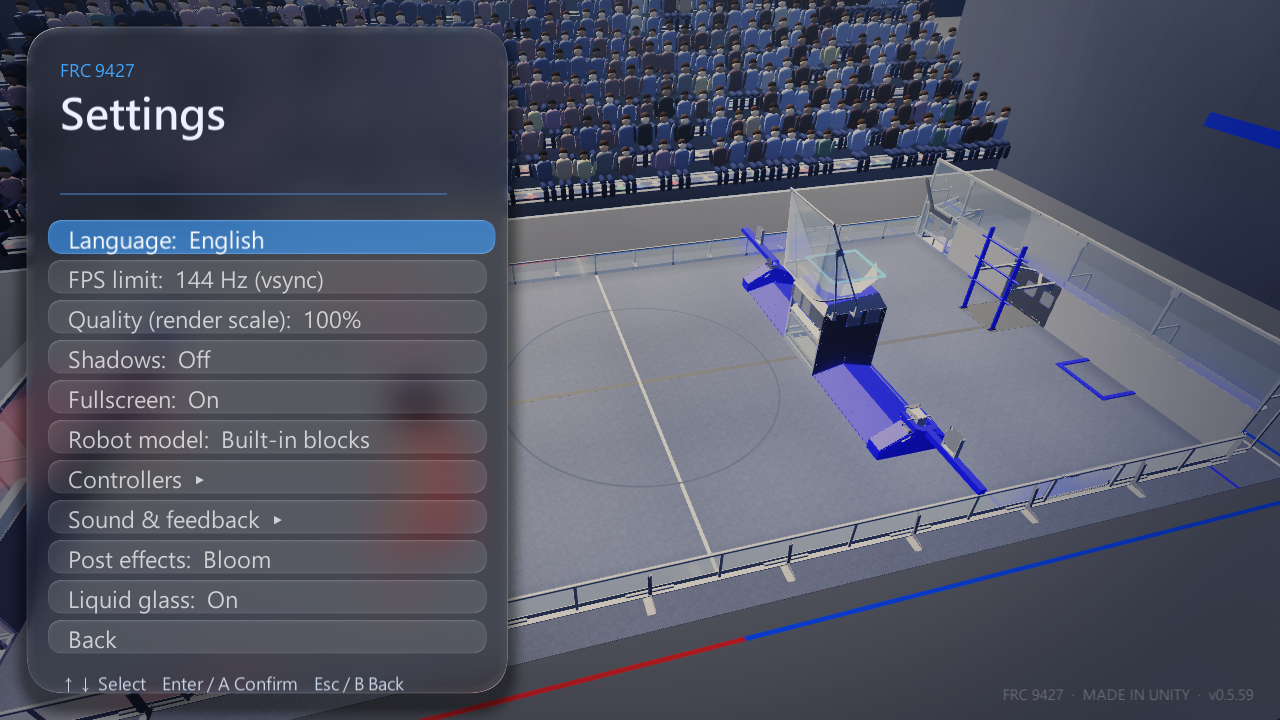
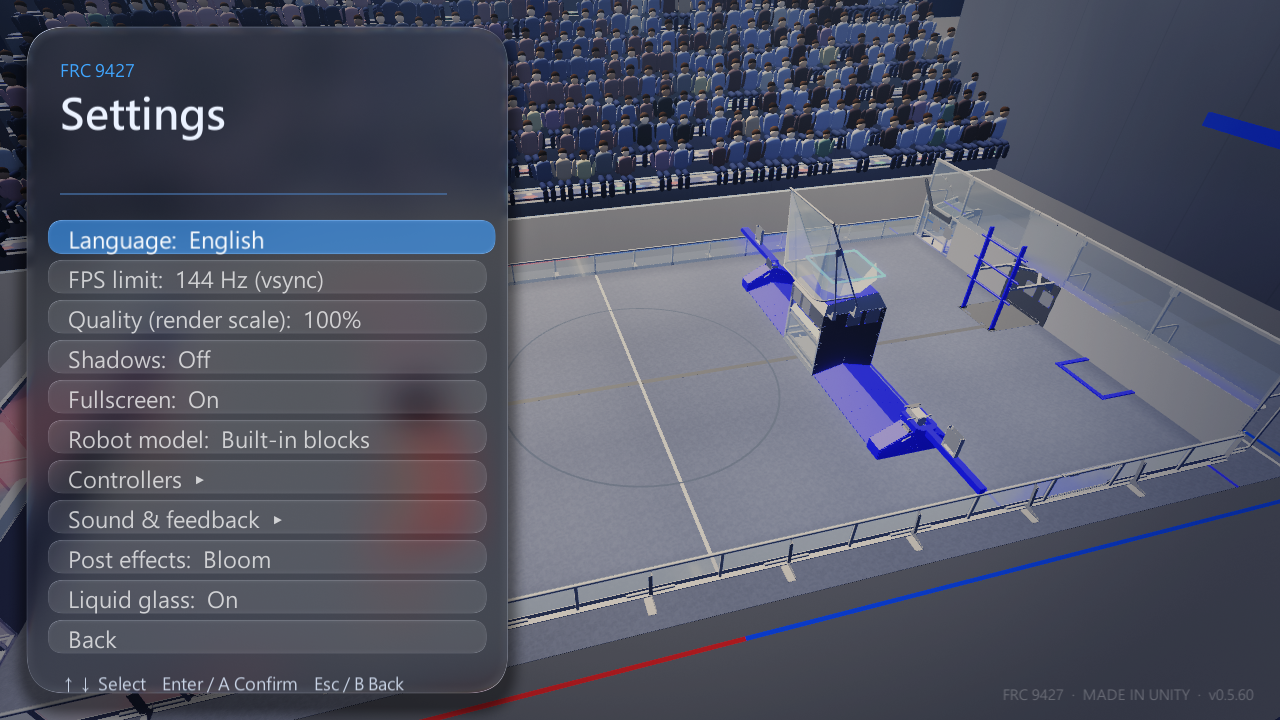
v0.5.60 score chart

diff --git a/Assets/Scripts/Sim/SimHud.cs b/Assets/Scripts/Sim/SimHud.cs
@@ -32,10 +32,38 @@ namespace FrcSim
         }
 
         bool wasPadOk = true, wasLoading; float padLostUntil;
-        void Start() { born = Time.unscaledTime; if (System.Array.IndexOf(System.Environment.GetCommandLineArgs(), "-f12test") >= 0) Invoke(nameof(TestShot), 8f); }
+        void Start() { born = Time.unscaledTime; if (System.Array.IndexOf(System.Environment.GetCommandLineArgs(), "-f12test") >= 0) Invoke(nameof(TestShot), 8f); if (System.Array.IndexOf(System.Environment.GetCommandLineArgs(), "-fakescore") >= 0) InvokeRepeating(nameof(FakeScore), 1f, 1.2f); }
         void TestShot() { StartCoroutine(SaveShot()); }
+        void FakeScore() { if (ScoreManager.Ended) return; ScoreManager.BlueScore += 2; if (Random.value < 0.5f) ScoreManager.RedScore += 1; }   // 測試旗標 -fakescore:模擬得分給結算折線圖截圖用
 
         float tutStart = -1f; bool tutDone, tutKey; bool bestDone, bestNew; int bestPrev;
+        readonly System.Collections.Generic.List<Vector3> chart = new System.Collections.Generic.List<Vector3>();   // (比賽秒數, 藍分, 紅分) 每秒取樣,結算折線圖用
+        float chartNext;
+        void SampleChart()
+        {
+            if (!ScoreManager.ClockOn) { chart.Clear(); return; }
+            float mt = ScoreManager.MatchTime;
+            if (chart.Count > 0 && mt < chart[chart.Count - 1].x - 1f) chart.Clear();   // 再來一場:時鐘倒回,清掉舊資料
+            if (!ScoreManager.Ended && Time.unscaledTime >= chartNext) { chartNext = Time.unscaledTime + 1f; chart.Add(new Vector3(mt, ScoreManager.BlueScore, ScoreManager.RedScore)); }
+        }
+        void DrawChart(Rect r, int maxScore)
+        {
+            var wt = Texture2D.whiteTexture; GUI.color = new Color(1f, 1f, 1f, 0.07f); GUI.DrawTexture(r, wt);
+            float tMax = Mathf.Max(160f, chart[chart.Count - 1].x), mx = Mathf.Max(1, maxScore);
+            for (int pass = 0; pass < 2; pass++)
+            {
+                GUI.color = pass == 0 ? new Color(0.35f, 0.6f, 1f, 0.95f) : new Color(1f, 0.4f, 0.4f, 0.95f);
+                for (int i = 1; i < chart.Count; i++)
+                {
+                    float x0 = r.x + chart[i - 1].x / tMax * r.width, x1 = r.x + chart[i].x / tMax * r.width;
+                    float v0 = pass == 0 ? chart[i - 1].y : chart[i - 1].z, v1 = pass == 0 ? chart[i].y : chart[i].z;
+                    float y0 = r.yMax - v0 / mx * (r.height - 4f) - 2f, y1 = r.yMax - v1 / mx * (r.height - 4f) - 2f;
+                    GUI.DrawTexture(new Rect(x0, y0 - 1f, Mathf.Max(1f, x1 - x0), 2f), wt);                       // 水平段
+                    if (Mathf.Abs(y1 - y0) > 0.5f) GUI.DrawTexture(new Rect(x1 - 1f, Mathf.Min(y0, y1) - 1f, 2f, Mathf.Abs(y1 - y0) + 2f), wt);   // 垂直段(得分瞬間)
+                }
+            }
+            GUI.color = Color.white;
+        }
         string shotMsg = "", bannerPhase, bannerText = ""; float shotUntil, bannerUntil;
         System.Collections.IEnumerator SaveShot()
         {
@@ -55,6 +83,7 @@ namespace FrcSim
         void Update()
         {
             fps = Mathf.Lerp(fps, 1f / Mathf.Max(Time.unscaledDeltaTime, 1e-4f), 0.05f);
+            SampleChart();
             if (Input.GetKeyDown(KeyCode.F3)) showDebug = !showDebug;
             if (tutStart >= 0f && Input.GetKeyDown(KeyCode.Space)) tutKey = true;
             if (Input.GetKeyDown(KeyCode.F12)) StartCoroutine(SaveShot());
@@ -300,7 +329,9 @@ namespace FrcSim
             if (ScoreManager.ClockOn && ScoreManager.Ended)
             {
                 int rows = 0; for (int q = 0; q < 5; q++) if (ShotLog.Att[q] > 0) rows++;
-                float extra = rows > 0 ? rows * 26f + 34f : 0f;
+                bool showChart = chart.Count > 3 && ScoreManager.BlueScore + ScoreManager.RedScore > 0;
+                float rowsH = rows > 0 ? rows * 26f + 34f : 0f;
+                float extra = rowsH + (showChart ? 96f : 0f);
                 float cw = 560, ch = 372 + extra;
                 var cr = new Rect(cx - cw / 2f, H / 2f - ch / 2f, cw, ch);
                 Panel(cr, 0.95f);
@@ -327,6 +358,7 @@ namespace FrcSim
                         ry += 26f;
                     }
                 }
+                if (showChart) { chart.Add(new Vector3(160f, ScoreManager.BlueScore, ScoreManager.RedScore)); DrawChart(new Rect(cr.x + 40, cr.y + 224f + rowsH, cw - 80, 70f), Mathf.Max(ScoreManager.BlueScore, ScoreManager.RedScore)); chart.RemoveAt(chart.Count - 1); }
                 if (GBtn(new Rect(cr.x + 40, cr.y + 256 + extra, 230, 56), L("再來一場  (A)", "Rematch  (A)"), true) || Pad.Down(Pad.A) || Input.GetKeyDown(KeyCode.Return)) GameSession.Rematch();
                 if (GBtn(new Rect(cr.x + cw - 270, cr.y + 256 + extra, 230, 56), L("回主選單  (B)", "Main menu  (B)"), false) || Pad.Down(Pad.B)) MenuSystem.GoMain();
             }
@@ -420,6 +452,8 @@ namespace FrcSim
         }
     }
 }
+
+
 
 
 

diff --git a/Assets/Scripts/Sim/UpdateCheck.cs b/Assets/Scripts/Sim/UpdateCheck.cs
@@ -17,7 +17,7 @@ namespace FrcSim
     //   找不到差異包(或失敗)時退回「開啟下載頁」,讓使用者手動下載完整版。
     public class UpdateCheck : MonoBehaviour
     {
-        public const string Current = "0.5.59";
+        public const string Current = "0.5.60";
         const string Repo = "frc9427liu-tech/FRC9427-SimApp";
         const string ReleasesApi = "https://api.github.com/repos/" + Repo + "/releases?per_page=30";
         public const string Page = "https://github.com/" + Repo + "/releases/latest";
@@ -235,6 +235,7 @@ Start-Process -FilePath $Exe -WorkingDirectory $Dst
 ";
     }
 }
+
 
 
 
